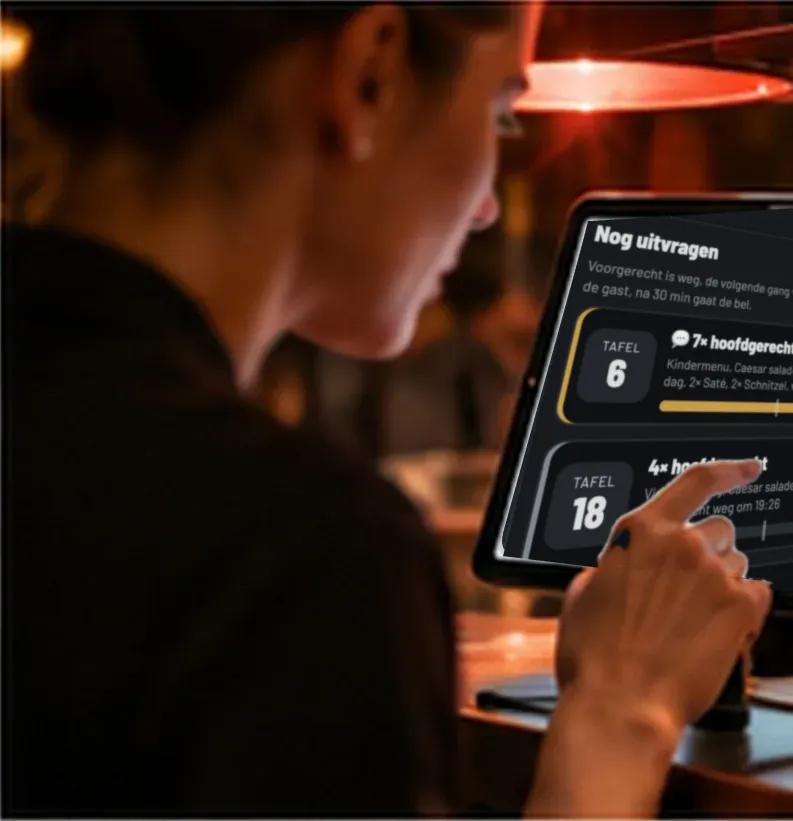
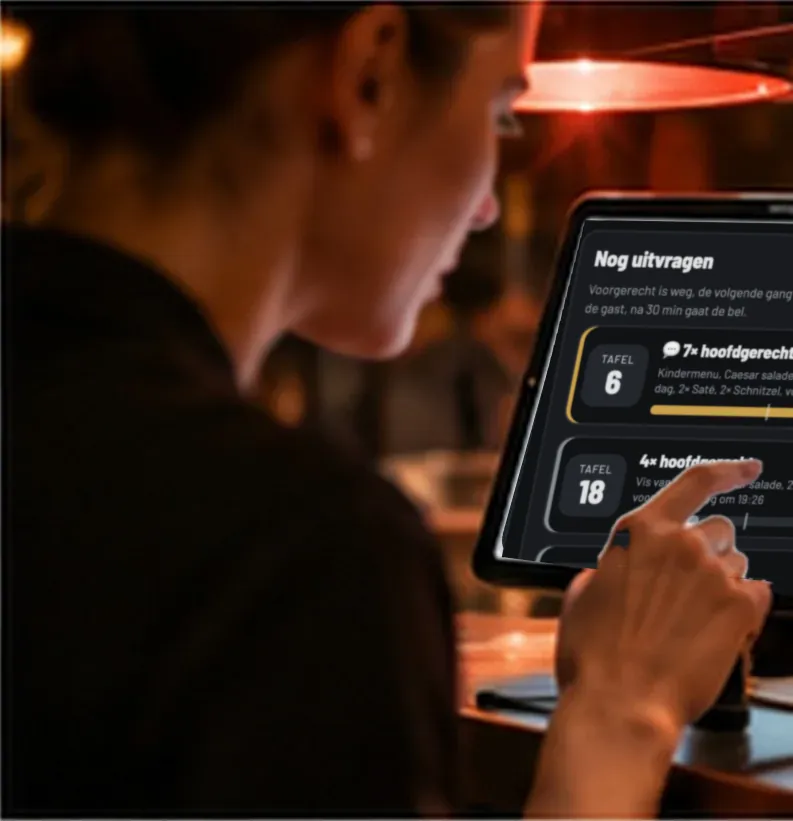
Pass-sfeerfoto 2: scherm recht en passend ingezet
Het nieuwe Pass-scherm op de tablet liep scheef weg naar rechts. Nu met
dezelfde schuinte als de tablet, binnen de randen van het scherm.

Claude-Session: https://claude.ai/code/session_01ALUUsfmRKza1PMbGdj28pU

Changed region(s): [[0.6356, 0.2436, 1.0, 0.7004], [0.8474, 0.5481, 1.0, 0.6699]]

diff --git a/index.html b/index.html
@@ -1211,7 +1211,7 @@ footer .meta a:hover{color:var(--fg)}
 <div class="app-panel" id="pass" role="tabpanel" aria-labelledby="t-pass" hidden>
 <div class="duo duo-top">
 <figure><img src="img/sfeer/pass-3.webp?v=2" alt="Bediening met een rondje bier en Pass op de telefoon" loading="lazy"><figcaption>Drankkansen: zie welke tafel toe is aan een rondje.</figcaption></figure>
-<figure><img src="img/sfeer/pass-2.webp?v=2" alt="Bediening tikt op Pass om een tafel uit te vragen" loading="lazy"><figcaption>Uitvragen op het juiste moment, met één tik in unTill.</figcaption></figure>
+<figure><img src="img/sfeer/pass-2.webp?v=3" alt="Bediening tikt op Pass om een tafel uit te vragen" loading="lazy"><figcaption>Uitvragen op het juiste moment, met één tik in unTill.</figcaption></figure>
 <figure><img src="img/sfeer/pass-1.webp?v=2" alt="Pass op de tablet bij de pas, onder de warmhoudlampen" style="object-position:75% center" loading="lazy"><figcaption>Bij de pas ziet de bediening in één blik wat er nu moet gebeuren.</figcaption></figure>
 </div>
 <div class="pass-top">
